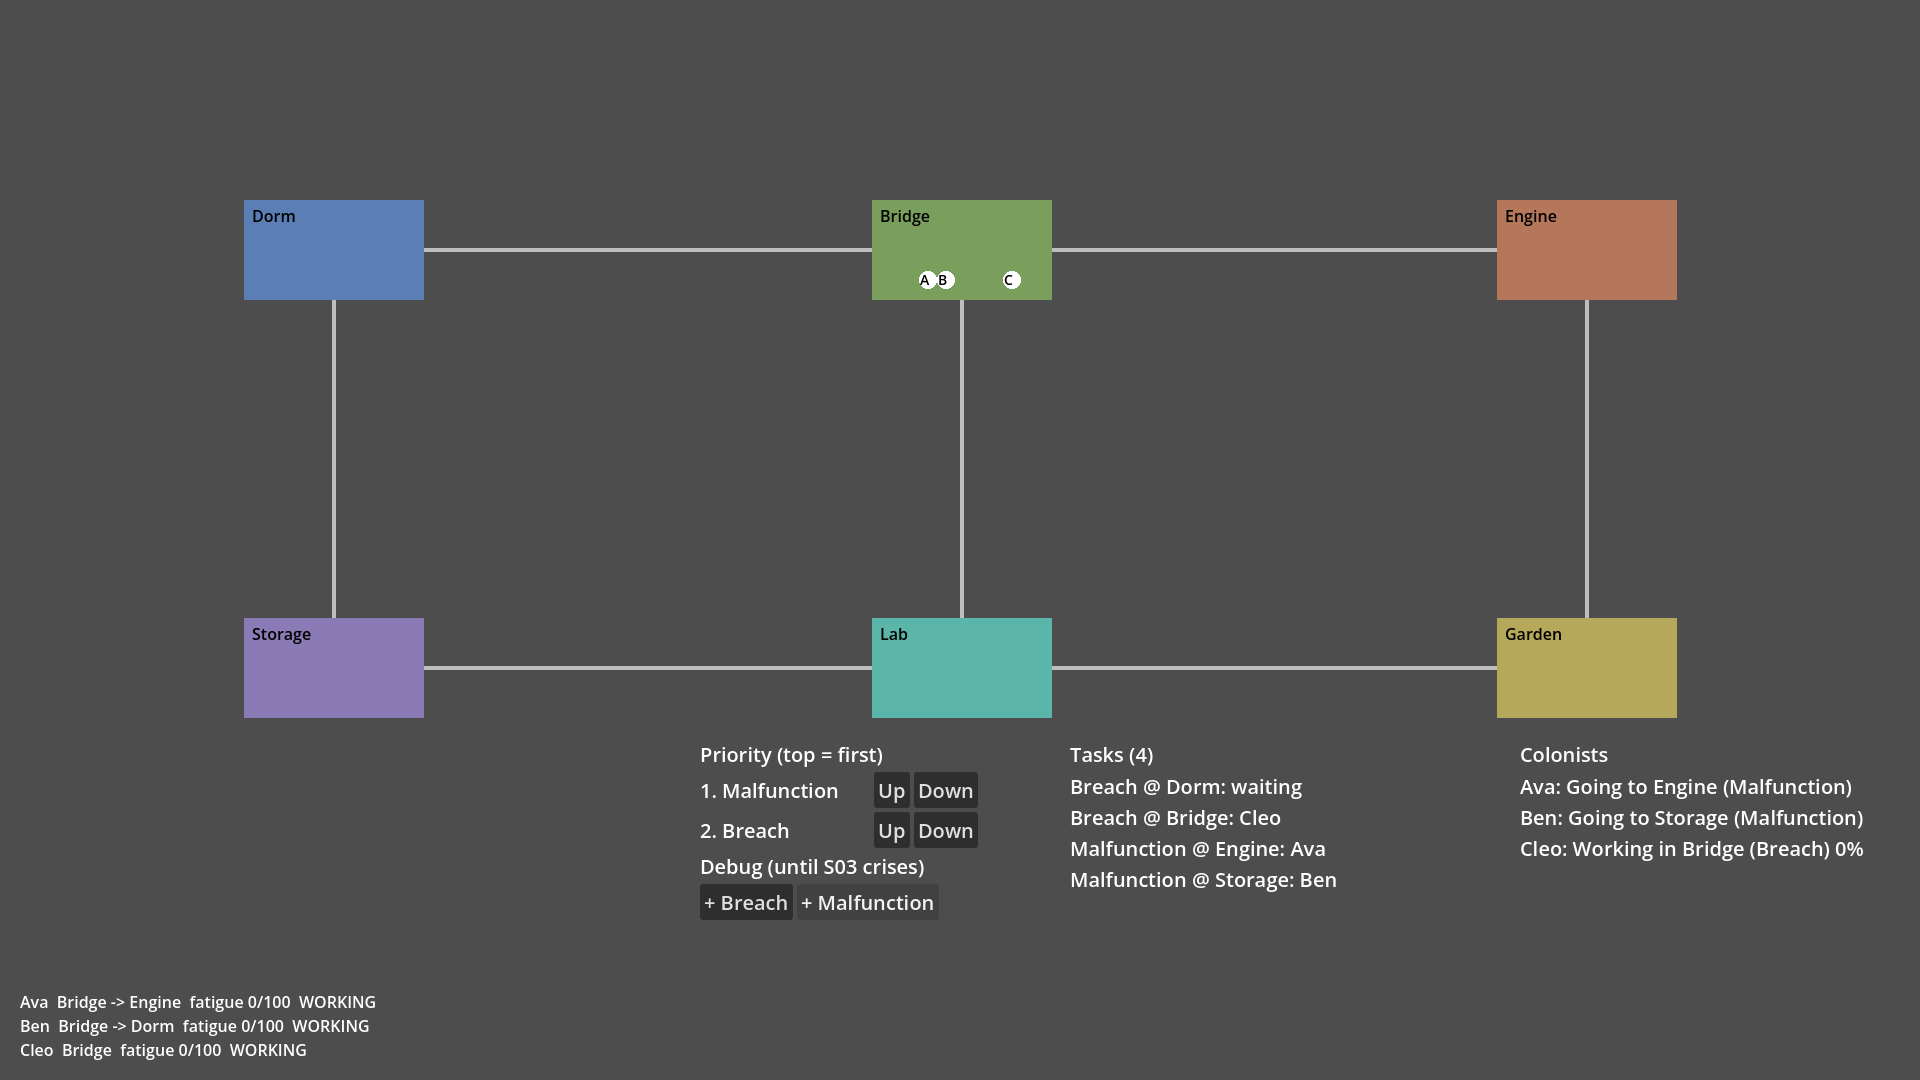
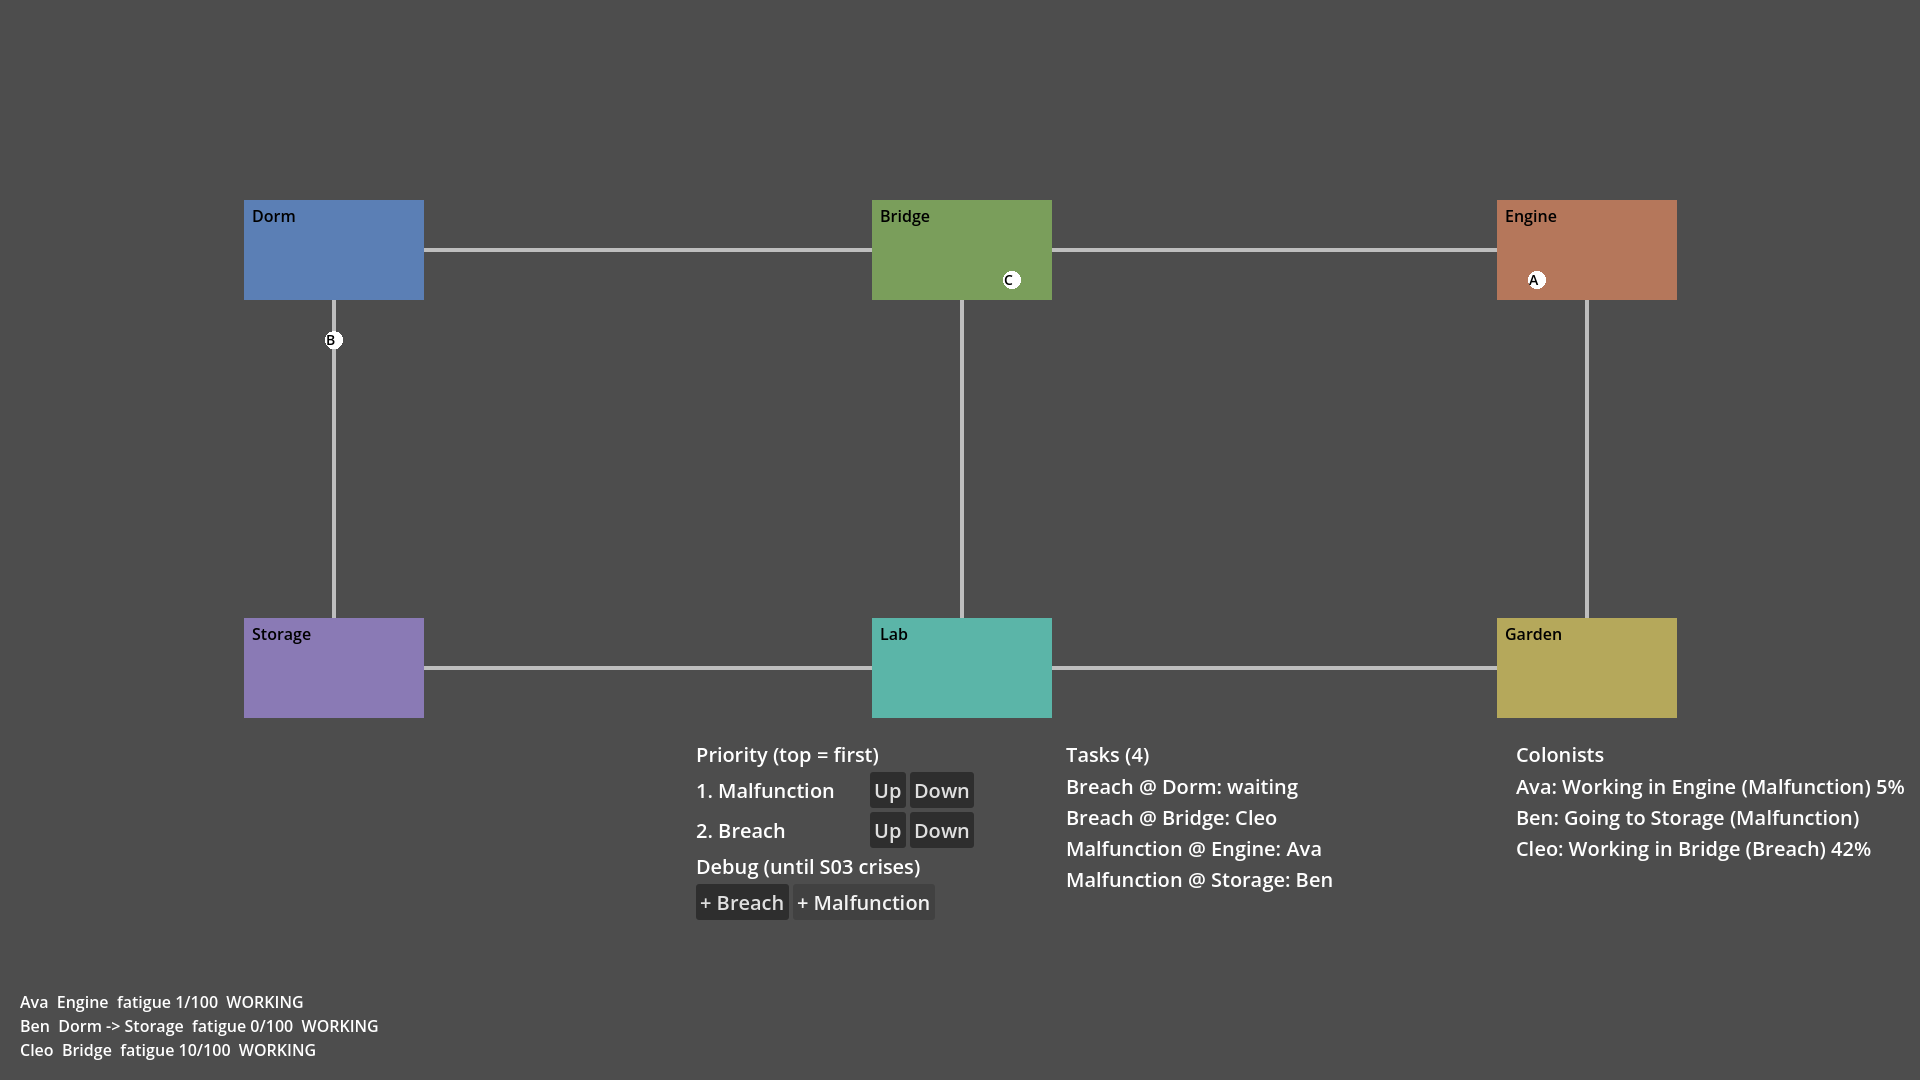
fix(tasks): address review of PR #35
* Drop the task of a crisis resolved elsewhere and free its colonist
* Check task_work_seconds is greater than 0 and type the task loops
* Test halfway release, nearest pick from different rooms and game end
  during work; rename the misnamed rest test
* Tick the story acceptance criteria and recapture the evidence

Story: production/epics/orbit-shift/story-003-tasks-and-priorities.md

diff --git a/production/epics/orbit-shift/story-003-tasks-and-priorities.md b/production/epics/orbit-shift/story-003-tasks-and-priorities.md
@@ -29,16 +29,16 @@
 
 *From `design/game-brief.md`, MVP 3 與 Core loop:*
 
-- [ ] 有一個任務清單，任務帶有類型（`breach`、`malfunction`）與所在房間，可被新增與完成
-- [ ] 玩家可在畫面上調整每種任務類型的優先序，調整立即生效
-- [ ] 空閒且未累垮的殖民者自動挑「優先序最高、尚未被別人認領」的任務；同優先序時挑距離最近的
-- [ ] 同一個任務同時只會被一名殖民者認領
-- [ ] 殖民者移動到任務房間、工作一段時間（可調參數）後任務完成並從清單移除
-- [ ] 殖民者因疲勞離開時，手上的任務釋放回清單，可被其他人認領
-- [ ] 玩家不能直接指定某名殖民者去做某件事（間接控制）
-- [ ] 畫面顯示任務清單與每名殖民者目前在做什麼
-- [ ] 收到 `Events.crisis_started` 時建立對應任務（帶 `crisis_id`）；任務完成時發出 `Events.task_completed`（見 `EPIC.md`「整合約定」）
-- [ ] `TaskBoard` 掛在 `src/main.tscn` 底下，`godot --path .` 開起來看得到殖民者依優先序接任務
+- [x] 有一個任務清單，任務帶有類型（`breach`、`malfunction`）與所在房間，可被新增與完成
+- [x] 玩家可在畫面上調整每種任務類型的優先序，調整立即生效
+- [x] 空閒且未累垮的殖民者自動挑「優先序最高、尚未被別人認領」的任務；同優先序時挑距離最近的
+- [x] 同一個任務同時只會被一名殖民者認領
+- [x] 殖民者移動到任務房間、工作一段時間（可調參數）後任務完成並從清單移除
+- [x] 殖民者因疲勞離開時，手上的任務釋放回清單，可被其他人認領
+- [x] 玩家不能直接指定某名殖民者去做某件事（間接控制）
+- [x] 畫面顯示任務清單與每名殖民者目前在做什麼
+- [x] 收到 `Events.crisis_started` 時建立對應任務（帶 `crisis_id`）；任務完成時發出 `Events.task_completed`（見 `EPIC.md`「整合約定」）
+- [x] `TaskBoard` 掛在 `src/main.tscn` 底下，`godot --path .` 開起來看得到殖民者依優先序接任務
 
 ---
 
